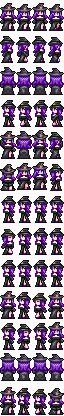
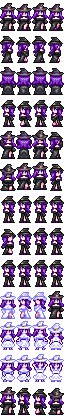
Version 2.1.1

Changed region(s): [[0.0, 0.6875, 1.0, 0.9375], [0.125, 0.5625, 0.1562, 0.5938]]

diff --git a/README.md b/README.md
@@ -2,28 +2,55 @@
 
 Nexus mod site: https://www.nexusmods.com/stardewvalley/mods/8265
 
-What this mod brings to the game:
-* The old Wizard is now a Witch - changes the name (Rasmodius to Rasmodia) and gender in the game files
-* Changes dialogues to fit the new gender
-* New sprite and portrait
+Contents:
+* The old Wizard is now Witch Rasmodia
+* Dialogues from the base game, Stardew Valley Expanded and Romanceable Rasmodius adjusted to the correct gender and name
+* Corrected events, quests, special orders and more
+* New portrait and sprite (now with wedding and flower dance dresses)
 
 Original romance mod was made by haywrite (dialogue expansion), WerewolfMaster (romance part) and PaintedParrot (adjustments to SVE mod)
 Assets by CreepyKat with my edits to fit mod
 
 ## Version changelog:
+- Version 2.1.1
+  * Fixes:
+    * Marlon 2 heart event (Krobus introduction)
+    * Witch 5 heart event (SVE integrated)
+    * Witch 7 heart event (SVE integrated)
+    * Andy 6 heart event
+    * Lewis's festival dialogue
+    * Marlon's daily dialogue
+    * Caroline's daily dialogue
+    * Couple of interactive object's texts
+    * Portrait - wrong "angry" placement
+    * Special Orders - fixed signature, quest objectives, emoji and marriage dependant return dialogue
+
+- Version 2.1
+  * Dialogue changes for latest version of main mod
+  * Fixed previously known problems (Void Shard event, mature Pierre event, letters)
+  * Modified portraits (new expressions) and sprites (wedding dress and flower dance)
+  * Seasonal Outfits now won't override assets
+  * Json Assets is now required
+  * Configuration settings should be the same as in the main mod, same with Mature Events from SVE
+
 - 2.0.3:
   * Quick fix for the portrait error with the new version of SVE
+  
 - 2.0.2:
   * Shrine of Illusions SVE Event - Fixed
   * Wizard's Summoning letter - Fixed
   * Minor tweaks to dialogues
+
 - 2.0.1:
   * Fixed farmer movement in 14 heart event and delivery of the magic ink event
+
 - 2.0: As of now the mod doesn't overwrite any of the original mod files.
   * Fixed most of SVE events dialogue
   * Replaced an odd sprite during Dark Talisman event (Married version)
+
 - 1.2:
   * Fixed wedding and kissing sprites
   * Changed railroad event dialogue and mentions of being a father in basic dialogue.
+  
 - 1.1:
   * Fixed introduction event
